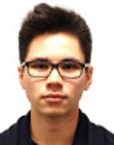
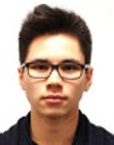
add ines picture

diff --git a/www/index.html b/www/index.html
@@ -595,7 +595,7 @@
 
       <div class="team-pan row">
 
-        <section class="col-xs-12 col-sm-6 col-md-2 col-lg-offset-1 col-md-offset-1">
+        <section class="col-xs-12 col-sm-6 col-md-2 col-lg-offset-3 col-md-offset-3">
 
           <figure><img src="images/team/clc.jpg" alt="" class=" img-responsive"/></figure>
 
@@ -662,8 +662,10 @@
           </header>
 
         </section>
+      </div>
+        <div class="team-pan row">
 
-        <section class="col-xs-12 col-sm-6 col-md-2">
+        <section class="col-xs-12 col-sm-6 col-md-2 col-lg-offset-3 col-md-offset-3">
 
           <figure><img src="images/team/ju.jpg" alt="" class=" img-responsive"/></figure>
 
@@ -703,6 +705,29 @@
             <a href="#"><i class="fa fa-linkedin" aria-hidden="true"></i></a>
 
             <a href="https://github.com/Jerem-No-One"><i class="fa fa-github" aria-hidden="true"></i></a>
+
+
+          </header>
+
+        </section>
+
+        <section class="col-xs-12 col-sm-6 col-md-2">
+
+          <figure><img src="images/team/ines.jpg" alt="" class=" img-responsive"/></figure>
+
+          <header>
+
+            <h5>Inès OSMANI</h5>
+
+            <h6>Marketing</h6>
+
+            <a href="#"><i class="fa fa-twitter" aria-hidden="true"></i></a>
+
+            <a href="#"><i class="fa fa-facebook" aria-hidden="true"></i></a>
+
+            <a href="#"><i class="fa fa-linkedin" aria-hidden="true"></i></a>
+
+            <a href="#"><i class="fa fa-github" aria-hidden="true"></i></a>
 
 
           </header>
